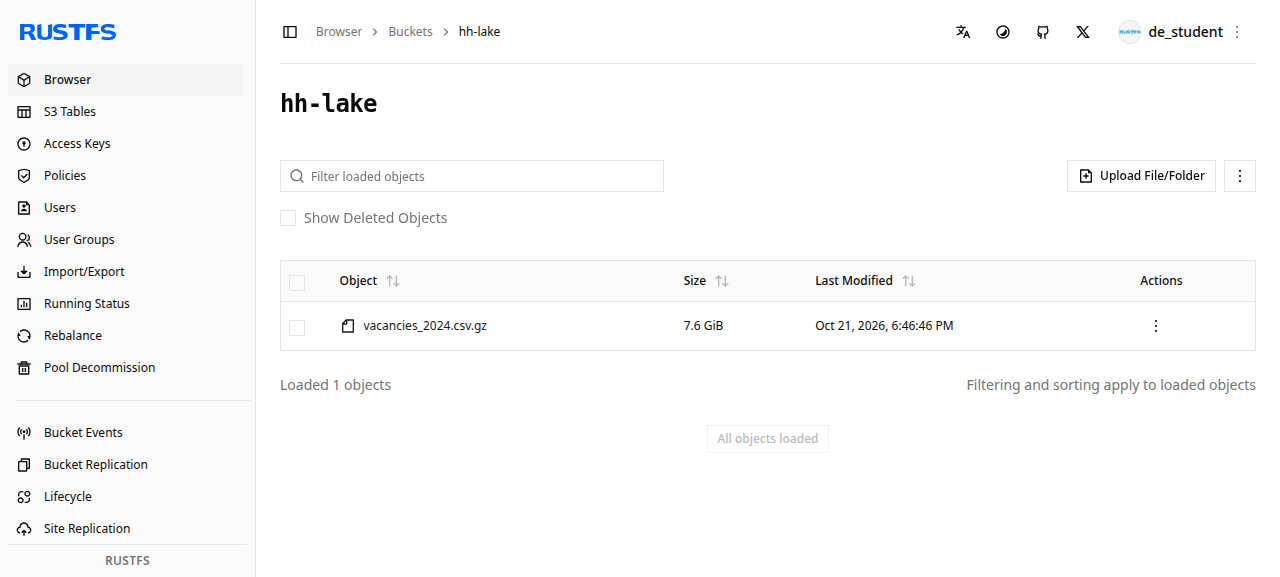
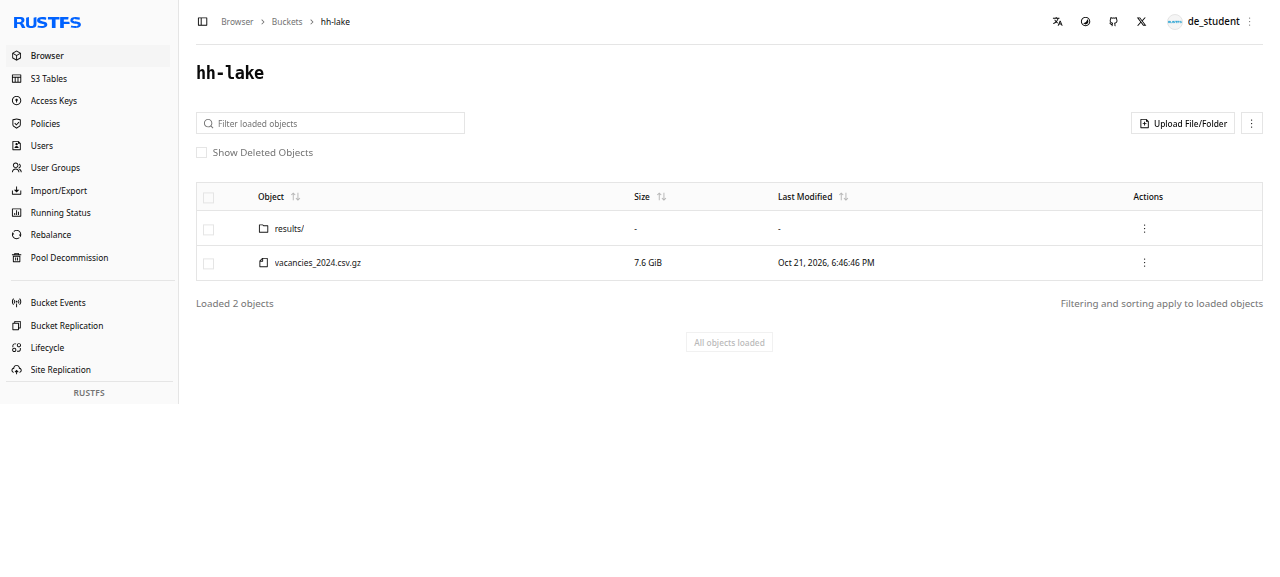
Add S3 read-back integrity proof to final report

diff --git a/build_report.py b/build_report.py
@@ -26,6 +26,7 @@ def main():
     audit = read("audit.json")
     ingest = read("ingest_verification.json")
     optimization = read("optimization_benchmark.json")
+    integrity = read("s3_integrity_manifest.json")
     if optimization and "temporary_allocation_reduction_percent" not in optimization:
         b = optimization["before"]["metrics"]["peak_temporary_bytes"]
         a = optimization["after"]["metrics"]["peak_temporary_bytes"]
@@ -45,6 +46,7 @@ def main():
             "audit": audit,
             "mapper_failure_test": failure,
             "optimization_benchmark": optimization,
+            "s3_integrity_manifest": integrity,
             "s3_result_objects": ["results/mapreduce_1000.json","results/mapreduce_10000.json","results/mapreduce_100000.json","results/duckdb.json","results/audit.json","results/mapper_failure.json","results/optimization_benchmark.json"]
         }
         (RESULTS / "submission_summary.json").write_text(json.dumps(summary,ensure_ascii=False,indent=2)+"\n",encoding="utf-8")
@@ -181,6 +183,8 @@ def main():
         story.append(Paragraph(f"Микробенчмарк выполнен на первых {optimization['sample_input_rows']:,} строках того же S3-объекта, по {optimization['repetitions_per_method']} повтора для каждого варианта. Метрика пика — временные Python-аллокации, замеренные tracemalloc; полная пиковая RSS для обработки датасета приведена отдельно выше.".replace(",", " "),styles["BodyRu"]))
         story.append(Paragraph(f"Пиковые временные аллокации уменьшились на {optimization['temporary_allocation_reduction_percent']:.1f}% ({before['peak_temporary_bytes']} → {after['peak_temporary_bytes']} байт). Это измерение относится к фильтру поверх уже загруженного набора строк и не выдаётся за снижение RSS полного процесса.", styles["BodyRu"]))
     story.append(Paragraph("Тест отказа mapper: искусственная ошибка должна завершать задачу с ошибкой; частичный результат не публикуется. MapReduce и SQL используют один S3 gzip-объект и единый сегмент; аудит сверяет словари одиночных навыков, пар и троек и число вакансий. В качестве оптимизации локальные счётчики блока редуцируются агрегированно, уменьшая количество операций записи в итоговые глобальные счётчики.", styles["BodyRu"]))
+    if integrity:
+        story.append(Paragraph(f"Read-back проверка RustFS: {integrity['status']} для {len(integrity['objects'])} объектов — исходного gzip и семи файлов результатов. SHA-256 каждого объекта, прочитанного из S3, совпал с контрольным файлом/хешем источника; полный манифест опубликован в `results/s3_integrity_manifest.json`.", styles["BodyRu"]))
     story.append(Paragraph("Ограничения: RustFS использует восемь каталогов на одном физическом NVMe (учебная конфигурация, без отказоустойчивости к потере диска). Зарплата указана только при валюте RUR, пропуски не импутируются. CSV является снимком 2024 года.", styles["BodyRu"]))
     screenshots = [ROOT / "evidence" / name for name in (
         "rustfs_buckets.png", "rustfs_hh_lake_object.png", "rustfs_results_objects.png")]

diff --git a/verify_s3_objects.py b/verify_s3_objects.py
@@ -1,0 +1,44 @@
+#!/usr/bin/env python3
+"""Read back required S3 objects and compare their SHA-256 digests."""
+import hashlib
+import json
+from pathlib import Path
+
+from pipeline import BUCKET, KEY, OUT, s3client
+
+source = json.loads((OUT / "ingest_verification.json").read_text(encoding="utf-8"))
+expected_source_sha = source["object"]["sha256"]
+keys = [
+    KEY,
+    "results/mapreduce_1000.json",
+    "results/mapreduce_10000.json",
+    "results/mapreduce_100000.json",
+    "results/duckdb.json",
+    "results/audit.json",
+    "results/mapper_failure.json",
+    "results/optimization_benchmark.json",
+]
+s3 = s3client()
+manifest = {"bucket": BUCKET, "status": "PASS", "objects": []}
+for key in keys:
+    response = s3.get_object(Bucket=BUCKET, Key=key)
+    digest = hashlib.sha256()
+    size = 0
+    for block in iter(lambda: response["Body"].read(8 * 1024 * 1024), b""):
+        digest.update(block)
+        size += len(block)
+    actual_sha = digest.hexdigest()
+    local_path = OUT / Path(key).name
+    expected_sha = expected_source_sha if key == KEY else hashlib.sha256(local_path.read_bytes()).hexdigest()
+    item = {"key": key, "bytes": size, "sha256": actual_sha,
+        "expected_sha256": expected_sha, "matches": actual_sha == expected_sha}
+    manifest["objects"].append(item)
+    print(json.dumps(item, ensure_ascii=False))
+    if not item["matches"]:
+        manifest["status"] = "FAIL"
+
+(OUT / "s3_integrity_manifest.json").write_text(
+    json.dumps(manifest, ensure_ascii=False, indent=2) + "\n", encoding="utf-8")
+print(json.dumps({"status": manifest["status"], "verified_objects": len(keys)}, ensure_ascii=False))
+if manifest["status"] != "PASS":
+    raise SystemExit(2)

diff --git a/README.md b/README.md
@@ -22,6 +22,7 @@ python pipeline.py fail-test
 python pipeline.py profile       # три полных прохода: 1k / 10k / 100k строк на блок
 python pipeline.py duckdb        # независимый SQL-расчёт прямо по S3 gzip
 python pipeline.py audit         # точное сравнение счётчиков
+python verify_s3_objects.py      # потоковый read-back и SHA-256 source + 7 outputs
 python benchmark_filter.py       # до/после оптимизации фильтра на 1 млн строк из S3
 ```
 
@@ -35,4 +36,4 @@ MapReduce читает S3-объект потоково через gzip и CSV, 
 
 ## Итог фактического запуска
 
-Проверенный исходный CSV содержит 10 205 102 записи; gzip-объект `s3://hh-lake/vacancies_2024.csv.gz` полностью прочитан и сверён по SHA-256. Фильтр отобрал 20 033 Python-вакансии. На целевом WSL-сервере MapReduce для блоков 1 000 / 10 000 / 100 000 строк выполнился за 225.0 / 230.711 / 236.656 с с пиком RSS 611.2 / 682.4 / 1 528.3 MiB. DuckDB выполнился за 93.824 с при 4 303.3 MiB RSS. Полный аудит трёх прогонов завершился `PASS`, расхождений по навыкам, парам, тройкам и региональным срезам нет. На сервере PDF собран из результатов этих запусков; в Windows Documents оставлен только отчёт. Краткая машиночитаемая сводка публикуется как `results/submission_summary.json`; компактные журналы аудита, теста отказа и оптимизации — в `results/`.
+Проверенный исходный CSV содержит 10 205 102 записи; gzip-объект `s3://hh-lake/vacancies_2024.csv.gz` полностью прочитан и сверён по SHA-256. Фильтр отобрал 20 033 Python-вакансии. На целевом WSL-сервере MapReduce для блоков 1 000 / 10 000 / 100 000 строк выполнился за 225.0 / 230.711 / 236.656 с с пиком RSS 611.2 / 682.4 / 1 528.3 MiB. DuckDB выполнился за 93.824 с при 4 303.3 MiB RSS. Полный аудит трёх прогонов завершился `PASS`, расхождений по навыкам, парам, тройкам и региональным срезам нет. Потоковый read-back из RustFS сверил SHA-256 исходного объекта и семи файлов результатов; все восемь совпали. На сервере PDF собран из результатов этих запусков; в Windows Documents оставлен только отчёт. Краткая машиночитаемая сводка публикуется как `results/submission_summary.json`; манифест контрольных сумм — `results/s3_integrity_manifest.json`.
